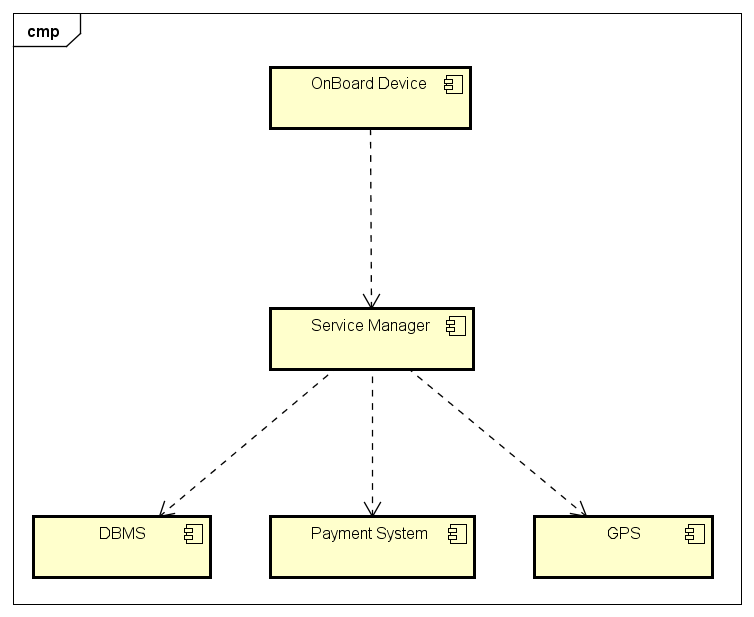
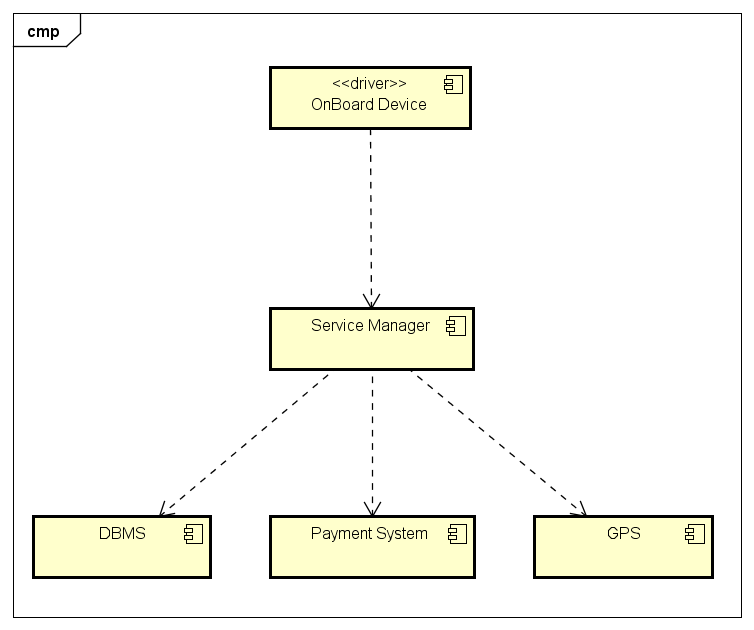
sequence of components integration fixed

diff --git a/Testing/Integration_Strategy.tex b/Testing/Integration_Strategy.tex
@@ -42,130 +42,124 @@ When the integration testing regards the Service Manager, the bottom up approach
 \subsection{Sequence of Component/Function Integration} 
 \subsubsection{Software Integration Sequence} For each subsystem, identify the sequence in which the software components will be integrated within the subsystem; relate this sequence to any product features that are being built up
 \newline
-\todo{i componenti che vengono aggiunti a livello più alto devono essere dei driver, non i componenti stessi}
 Because we have chosen a bottom up approach, the first components to be tested are the low level ones, so the ones that compose the Service Manager. After we have completed the integration for the subcomponents of the Service Manager, we will integrate the components that are directly interfaced with that subsystem, that are the Car Manager and the Request Manager. At the end, we will integrate the remaining front-end components, that are the Web Client and the Mobile Client.
 At each step of the integration, a driver for the new component to be integrated has to be constructed. When the integration testing regarding that component stops, the driver is replaced with the actual component.
-\paragraph{User Manager}
-\todo{vanno messe le didascalie giuste alle immagini}
-The first component that will be tested is the User Manager, because he has a relation with the DBMS, that is a component ready to use, as we mentioned in the previous paragraph. In particular it has to manipulate data about the users and their account.
-So first the User Manager is integrated with the DBMS:
+\paragraph{Integration of the components of the Service Manager}
+The strategy that we have chosen to follow for the integration testing between the subcomponents of the Service Manager and the Service Manager itself is a functional one. So it won't constructed a driver for all the functionalities of the Service Manager, but at every step a driver for the single functionality regarding the subcomponent that is being tested is constructed.
+\subparagraph{Request Manager and User Manager}
+The first components to be tested with the Service Manager are the ones that have a relation with the DBMS: the User Manager and the Reservation Manager. The first one has to manipulate data regarding the users and their accounts and the second one has to manipulate data regarding the cars. As we mentioned in the previous section, the DBMS is a component ready to use, so the User Manager and the Reservation Manager will be directly tested with the DBMS, without the construction of drivers. The tests with the DBMS have to precede those with the Service Manager \newline
+The order in which the Reservation Manager and the User Manager are chosen doesn't matter. 
 
 \begin{figure}[H]	
 	\centering
 	\includegraphics[width=\textwidth]{img/UserMan_DBMS_int}
-	\caption{Component Diagram}
+	\caption{Integration of User Manager and DBMS}
 \end{figure}
-\noindent
-When the two components are proved to work well together, the functions of the Service Manager regarding the use of the User Manager are added: \todo{del service manager vengono integrate solo un po' di funzionalità alla volta, quindi l'approccio è un mix tra Bottom Up e Functional Testing}
 
 \begin{figure}[H]	
 	\centering
 	\includegraphics[width=\textwidth]{img/UserMan_SrvMan_int}
-	\caption{Component Diagram}
+	\caption{Integration of User Manager and DBMS with Service Manager}
 \end{figure}
-\paragraph{Reservation Manager}
-The second component that will be tested is the Reservation Manager, because he too has a relation with the DBMS. In particular, it has to manipulate data regarding the cars:
 
 \begin{figure}[H]	
 	\centering
 	\includegraphics[width=\textwidth]{img/ResMan_DBMS_int}
-	\caption{Component Diagram}
+	\caption{Integration of Reservation Manager and DBMS}
 \end{figure}
-
-After the Reservation Manager is well integrated with the DBMS, we integrate the two components together with the specific functionalities of the Service Manager
 
 \begin{figure}[H]	
 	\centering
 	\includegraphics[width=\textwidth]{img/ResMan_SrvMan_int}
-	\caption{Component Diagram}
+	\caption{Integration of Reservation Manager and DBMS with Service Manager}
 \end{figure}
-\paragraph{Fee Manager}
-The Fee Manager have to be tested first with the payment system. Because it would be hard and expensive using a real payment system, a stub simulating its functionalities is used:
+\subparagraph{Fee Manager}
+The Fee Manager has to interact with payment systems, because it has the task of calculating the fee and charging the user. Because it would be hard and expensive using a real payment system, a stub simulating its functionalities is used. The tests with the Payment System stub have to precede the tests with the Service Manager. 
+
 
 \begin{figure}[H]	
 	\centering
 	\includegraphics[width=\textwidth]{img/FeeMan_PaySys_int}
-	\caption{Component Diagram}
+	\caption{Integration of Fee Manager and Payment System}
 \end{figure}
-After that, the Fee Manager will be integrated with the proper functionalities of the Service Manager:
 
 \begin{figure}[H]	
 	\centering
 	\includegraphics[width=\textwidth]{img/FeeMan_SrvMan_int}
-	\caption{Component Diagram}
+	\caption{Integration of Fee Manager and Payment System with Service Manager}
 \end{figure}
-\paragraph{Position Manager}
-The Position Manager have to be tested first with the GPS software. Because the development team is already provided with the GPS software, we don't need the use of a stub but we can integrate the real software:
 
-\begin{figure}[H]	
-	\centering
-	\includegraphics[width=\textwidth]{img/PosMan_GPS_int}
-	\caption{Component Diagram}
-\end{figure}
-Then the components are integrated with the functionalities of the Service Manager:
+\subparagraph{Position Manager}
+In addition to the Service Manager, the Position Manager has to interact also with the GPS software. Like the DBMS, the GPS software is a component found on the market and ready to use and so it can be tested directly with the Position Manager, without the construction of a driver. The tests with the GPS component have to precede the tests with the Service Manager.
+
 
 \begin{figure}[H]	
 	\centering
 	\includegraphics[width=\textwidth]{img/PosMan_SrvMan_int}
-	\caption{Component Diagram}
+	\caption{Integration of Position Managere and GPS}
 \end{figure}
 
-\paragraph{Car Manager}
-The Car Manager is interfaced only with the Service Manager, so it is tested only with that component:
+
+\begin{figure}[H]	
+	\centering
+	\includegraphics[width=\textwidth]{img/PosMan_SrvMan_int}
+	\caption{Integration of Position Manager and GPS with Service Manager}
+\end{figure}
+
+\subparagraph{Car Manager}
+The Car Manager is interfaced only with the Service Manager, so it is tested only with the driver of that component:
 
 \begin{figure}[H]	
 	\centering
 	\includegraphics[width=\textwidth]{img/CarMan_SrvMan_int}
-	\caption{Component Diagram}
+	\caption{Integration of Car Manager and Service Manager}
 \end{figure}
 
-\paragraph{Service Manager}
+\paragraph{Components interacting with the Service Manager}
 After the integration tests on the subcomponents of the System Manager are completed, the Service Manager is ready to be integrated with higher level components. The testing of the subcomponents of the Service Manager ends here because those subcomponents implement functionalities that are independent with each other and so is sufficient to test them singularly together with the Service Manager and the external components they need.
 \newline
-So, after the completion of the test on the Service Manager, this component will have to be tested with the Request Handler and the Car Manager, that are the components directly interfaced with the Service Manager.
-First we choose to integrate the Request Handler, because it is the most critical component:
+So, after the completion of the test on the Service Manager, its driver is substituted by the actual component and this component will have to be tested with the Request Handler and the Car Manager, that are the components directly interfaced with the Service Manager.
+First we choose to test the Service Manager with the Request Handler driver, because the Request Handler is the most critical component:
 
 
 \begin{figure}[H]	
 	\centering
 	\includegraphics[width=\textwidth]{img/SrvMan_ReqHan_int}
-	\caption{Component Diagram}
+	\caption{Integration of Request Handler with Service Manager, DBMS, GPS and Payment System}
 \end{figure}
 
-Then, the Service Manager will be integrated with the OnBoard Device:
+Then, the Service Manager is integrated with the OnBoard Device driver:
 
 
 \begin{figure}[H]	
 	\centering
-	\includegraphics[width=\textwidth]{img/SrvMan_ReqHan_int}
-	\caption{Component Diagram}
-\end{figure}
-
-\paragraph{Request Handler}
-After the integration of the Request Handler and OnBoard Device, we can integrate the resulting subsystem with the HTTP Server. In particular the focus is on the interaction between the Request Handler and the HTTP Server:
-\begin{figure}[H]	
-	\centering
-	\includegraphics[width=\textwidth]{img/ReqHan_HTTP_int}
-	\caption{Component Diagram}
+	\includegraphics[width=\textwidth]{img/SrvMan_OnBoardDev_int}
+	\caption{Integration of OnBoard Device with Service Manager, DBMS, GPS and Payment System}
 \end{figure}
 
 \paragraph{HTTP Server}
-In the end, when the HTTP Server driver is substituted by the real component, the remaining two frontend components are integrated: the Mobile Client and the Web Client. The order in which this two components are chosen doesn't matter:
+After the integration of the Request Handler and OnBoard Device, we can test the resulting subsystem with the HTTP Server driver. In particular the focus is on the interaction between the Request Handler and the HTTP Server:
+\begin{figure}[H]	
+	\centering
+	\includegraphics[width=\textwidth]{img/ReqHan_HTTP_int}
+	\caption{Integration of HTTP Server and Subsystem including Request Handler, Service Manager, OnBoard Device, DBMS, GPS and Payment System}
+\end{figure}
+
+\paragraph{Frontend Components}
+In the end, when the HTTP Server driver is substituted by the real component and this is tested with the drivers of the remaining two frontend components: the Mobile Client and the Web Client. The order in which this two components are chosen doesn't matter:
 \begin{figure}[H]	
 	\centering
 	\includegraphics[width=\textwidth]{img/HTTP_MobCli_int}
-	\caption{Component Diagram}
+	\caption{Integration of Mobile Client and Subsystem including HTTP Server, Request Handler, Service Manager, OnBoard Device, GPS, DBMS and Payment System}
 \end{figure}
 
 \begin{figure}[H]	
 	\centering
 	\includegraphics[width=\textwidth]{img/HTTP_WebCli_int}
-	\caption{Component Diagram}
+	\caption{Integration of Web Client and Subsystem including HTTP Server, Request Handler, Service Manager, OnBoard Device, DBMS, GPS and Payment System}
 \end{figure}
 
 After these two integration tests, the all components of the system can be tested together.
-
-\subsubsection{Subsystem Integration Sequence} Identify the order in which subsystems will be integrated;  if you have a single subsystem, 2.4.1 and 2.4.2 have to be merged in a single section
 
 
 

diff --git a/Testing/Testing.tex b/Testing/Testing.tex
@@ -117,6 +117,30 @@ breaklinks=false,pdfborder={0 1 1},backref=false,colorlinks=false]
 		\vhEntry{ }{ }{ }{ }
 \end{versionhistory}}
 
+\newcommand{\teststep}[6]{
+	\begin{center}
+	\begin{adjustbox}{max width=\textwidth}	
+		\begin{tabular}{|l|>{\raggedright}p{15cm}|}
+			\hline 
+			Test Case Identifier & #1\tabularnewline
+			\hline 
+			\hline 
+			Test Item(s) & #2\tabularnewline
+			\hline 
+			Input Specification & #3\tabularnewline
+			\hline 
+			Output Specification & #4\tabularnewline
+			\hline 
+			Environmental Needs & #5\tabularnewline
+			\hline 
+			Test Description & #6
+			\tabularnewline
+			\hline 
+		\end{tabular}
+		\end{adjustbox}	
+	\par\end{center}
+	}
+
 
 \def\arraystretch{1.5}%  1 is the default, change whatever you need
 

diff --git a/Testing/Individual_Steps_and_Test_Description.tex b/Testing/Individual_Steps_and_Test_Description.tex
@@ -1,2 +1,8 @@
 \section{INDIVIDUAL STEPS AND TEST DESCRIPTION}
-For each step of the integration process, describe the type of tests will be used to verify that the elements integrated in this step perform as expected. Describe in general the expected results of the test set.
+
+\teststep {}
+{}
+{}
+{}
+{}
+{}
